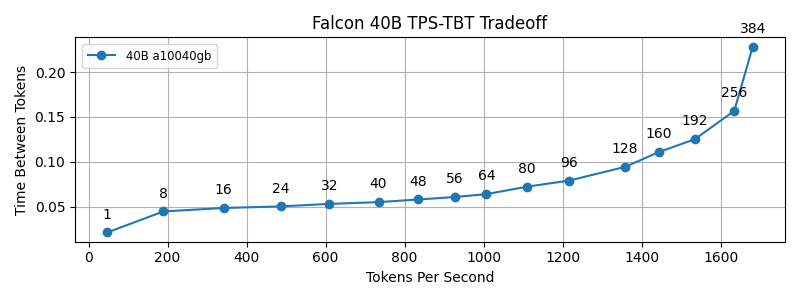
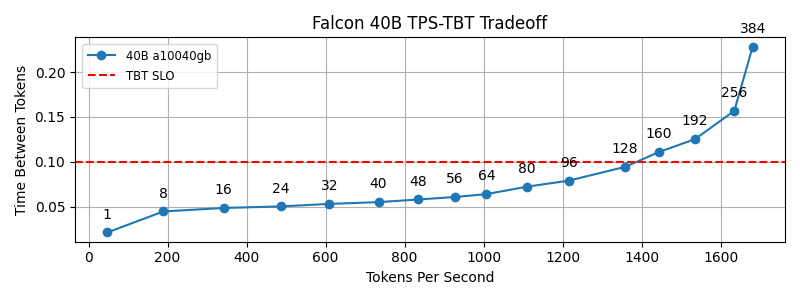
I have headache

Changed region(s): [[0.0938, 0.21, 0.2812, 0.3]]

diff --git a/nvidia-gpu/tensorrt-llm/plotting/cost_data.py b/nvidia-gpu/tensorrt-llm/plotting/cost_data.py
@@ -1,32 +1,30 @@
-# Building an AWS EC2 Carbon Emissions Dataset (Benjamin Davy): https://medium.com/teads-engineering/building-an-aws-ec2-carbon-emissions-dataset-3f0fd76c98ac
-# Dataset spreadsheet: https://docs.google.com/spreadsheets/d/1DqYgQnEDLQVQm5acMAhLgHLD8xXCG9BIrk-_Nv6jF3k/
 
-# ---------- STANDARD SERVER CARBON BREAKDOWN ----------
-# Embodied carbon data for Dell PowerEdge R740 (kgCO2eq)
-dell_poweredge_r740_carbon = {
-    'SSD'        : {
-        0 : 3379,       # 8 * 3.84TB Solid State Drives
-        1 : 64          # 1 * 400GB Solid State Drive
-    },
-    'DRAM'       : 533, # 12 * 32GB DIMMs Memory
-    'PWB'        : 109, # Mainboard PWB
-    'Networking' : 59,  # Riser card 1 - Riser card 2 - Riser card 3 - Ethernet card - HDD Controller - Q-logic - Intel Ethernet X710
-    'CPU'        : 47,  # 2 * Xeon CPUs with housing
-    'Chassis'    : 34,
-    'PSU'        : 30,
-    'IO'         : 20,  # Mainboard Connectors - Transport
-    'Fans'       : 13
-}
-# Operational carbon data for Dell PowerEdge R740 (TODO)
-
-
-# ---------- AWS GPU INSTANCE CARBON OVERALL ----------
+# ---------- AWS GPU INSTANCE COST OVERALL ----------
 # p4d.24xlarge
 # - CPU     : Xeon Platinum 8275CL
 # - Memory  : 1152GB
 # - Storage : 8TB NVMe SSD
 # - GPU     : 8 x 40GB A100
-aws_p4d_24xlarge_carbon = {
+#
+# ---------- ON-PREMISE DATACENTER ----------
+#   - CPU USD     : https://ark.intel.com/content/www/us/en/ark/products/192482/intel-xeon-platinum-8270-processor-35-75m-cache-2-70-ghz.html
+#     * Intel Xeon Platinum 8270 is compatible with DDR4-2933 memory
+#   - Memory USD  : https://memory.net/memory-prices/
+#     * 128GB DDR4-2933 PC4-23466U-L ECC LRDIMM
+#   - Storage USD : https://www.newegg.com/intel-dc-p4510-8tb/p/1Z4-009F-00083
+#     * Intel DC P4510 8TB PCIe NVMe SSD
+#   - GPU USD     : https://www.amazon.com/NVIDIA-Ampere-Graphics-Processor-Accelerator/dp/B08X13X6HF
+#     * NVIDIA Tesla A100 40GB PCIe
+#
+# ---------- CLOUD RENTAL ----------
+#   - AWS EC2 USD/HR : https://instances.vantage.sh/aws/ec2/p4d.24xlarge
+#     * 
+aws_p4d_24xlarge_cost = {
+    'CPU'   : 8477.00  # USD
+    'DRAM'  : 4932.00  # USD
+    'SSD'   : 1350.55  # USD
+    'GPU'   : 63679.92 # USD
+
     'pkg_power_0'       : 57.93,   # Watts
     'pkg_power_10'      : 175.53,  # Watts
     'pkg_power_50'      : 448.31,  # Watts
@@ -50,7 +48,7 @@ aws_p4d_24xlarge_carbon = {
 # - Memory  : 768GB
 # - Storage : 2 x 900GB NVMe SSD
 # - GPU     : 8 x 32GB V100
-aws_p3dn_24xlarge_carbon = {
+aws_p3dn_24xlarge_cost = {
     'pkg_power_0'       : 57.88,  # Watts
     'pkg_power_10'      : 146.63, # Watts
     'pkg_power_50'      : 343.70, # Watts

diff --git a/nvidia-gpu/tensorrt-llm/plotting/gpu_batch_exp_plotting.py b/nvidia-gpu/tensorrt-llm/plotting/gpu_batch_exp_plotting.py
@@ -8,6 +8,7 @@ from pathlib import Path
 
 import gpu_batch_exp_utils
 import carbon_data
+import cost_data
 
 
 # Group experiment data based on the parameter groups passed
@@ -830,7 +831,7 @@ def plot_tps_vs_tbt(
     bmark_param_groups,
     plot_filename,
     plot_name,
-    add_human_slo
+    tbt_slo
 ):
     # Organizing different bmark data points for the line plot
     plotting_metrics = [
@@ -893,7 +894,9 @@ def plot_tps_vs_tbt(
                          xytext=(0, 10),
                          ha='center')
 
-    
+    if tbt_slo is not None:
+        plt.axhline(y=tbt_slo, color='red', linestyle='--', label='TBT SLO')
+
     plt.xlabel('Tokens Per Second')
     plt.ylabel('Time Between Tokens')
     plt.title(plot_name)
@@ -1142,7 +1145,7 @@ def main(args):
             args.bmark_param_groups,
             args.plot_filename,
             args.plot_name,
-            args.add_human_slo
+            args.tbt_slo
         )
     if args.plot_tbt_vs_ept:
         plot_tbt_vs_ept(
@@ -1259,8 +1262,8 @@ if __name__ == '__main__':
         help='specify this arg to plot the tco breakeven point of inference serving between old and new generation of GPUs'
     )
     parser.add_argument(
-        '--add_human_slo',
-        type=int,
+        '--tbt_slo',
+        type=float,
         help='specify the TBT SLO for human readability'
     )
     parser.add_argument(
